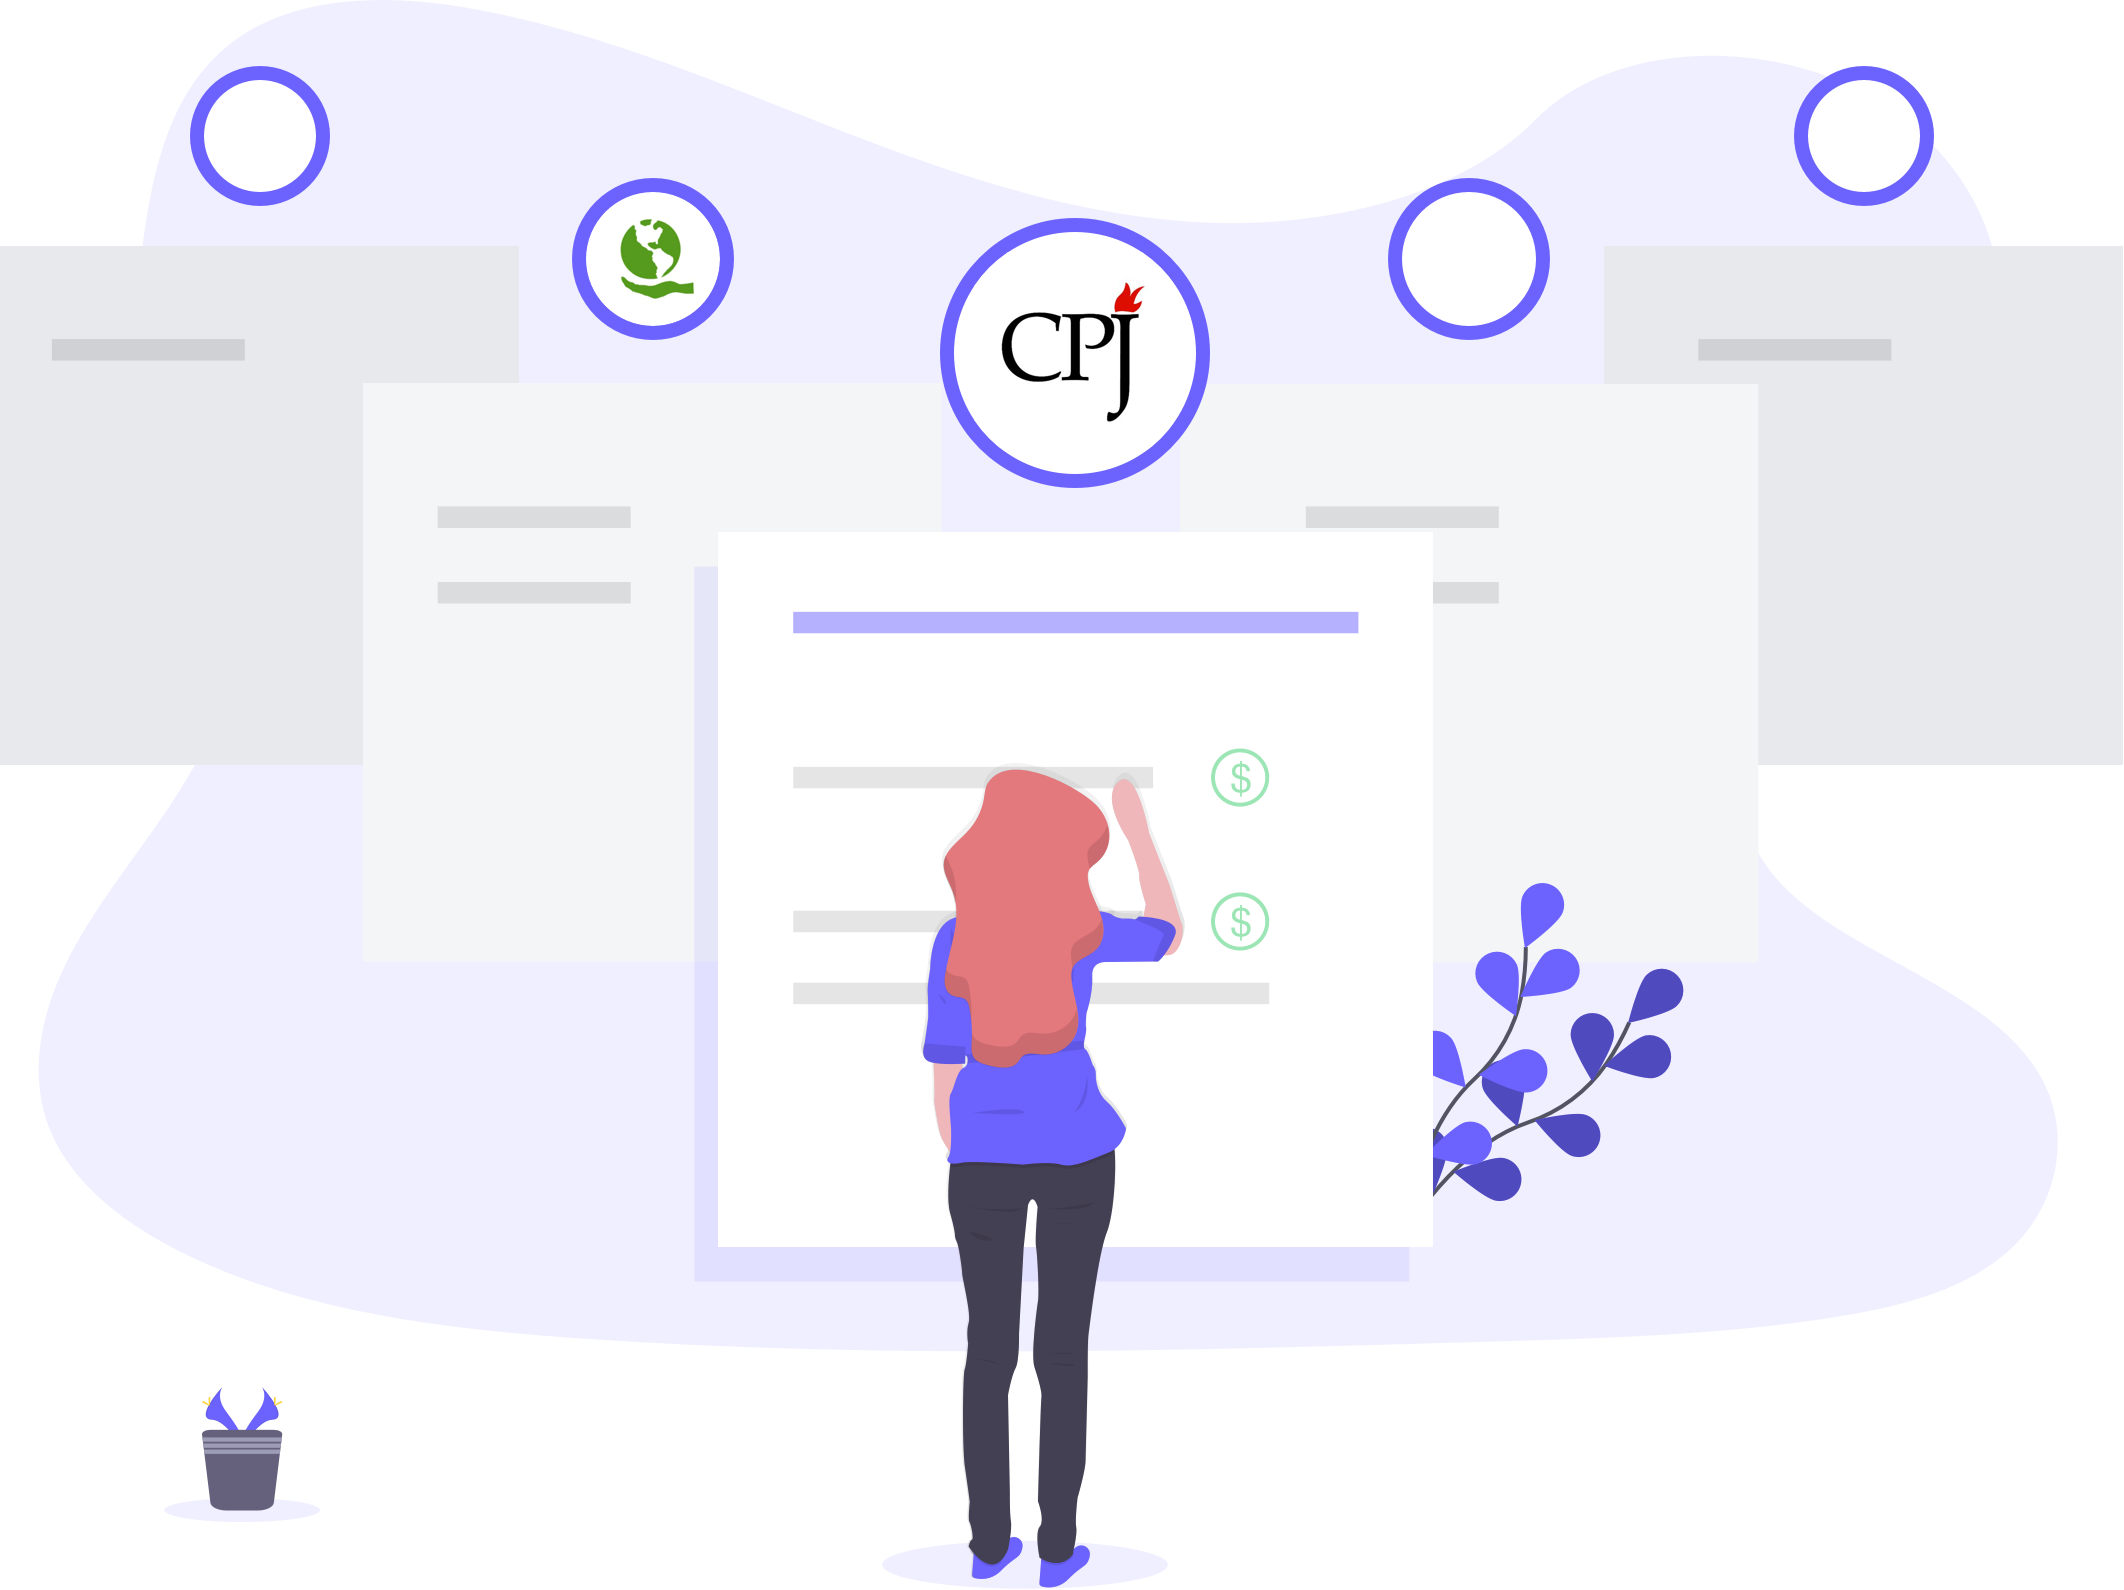
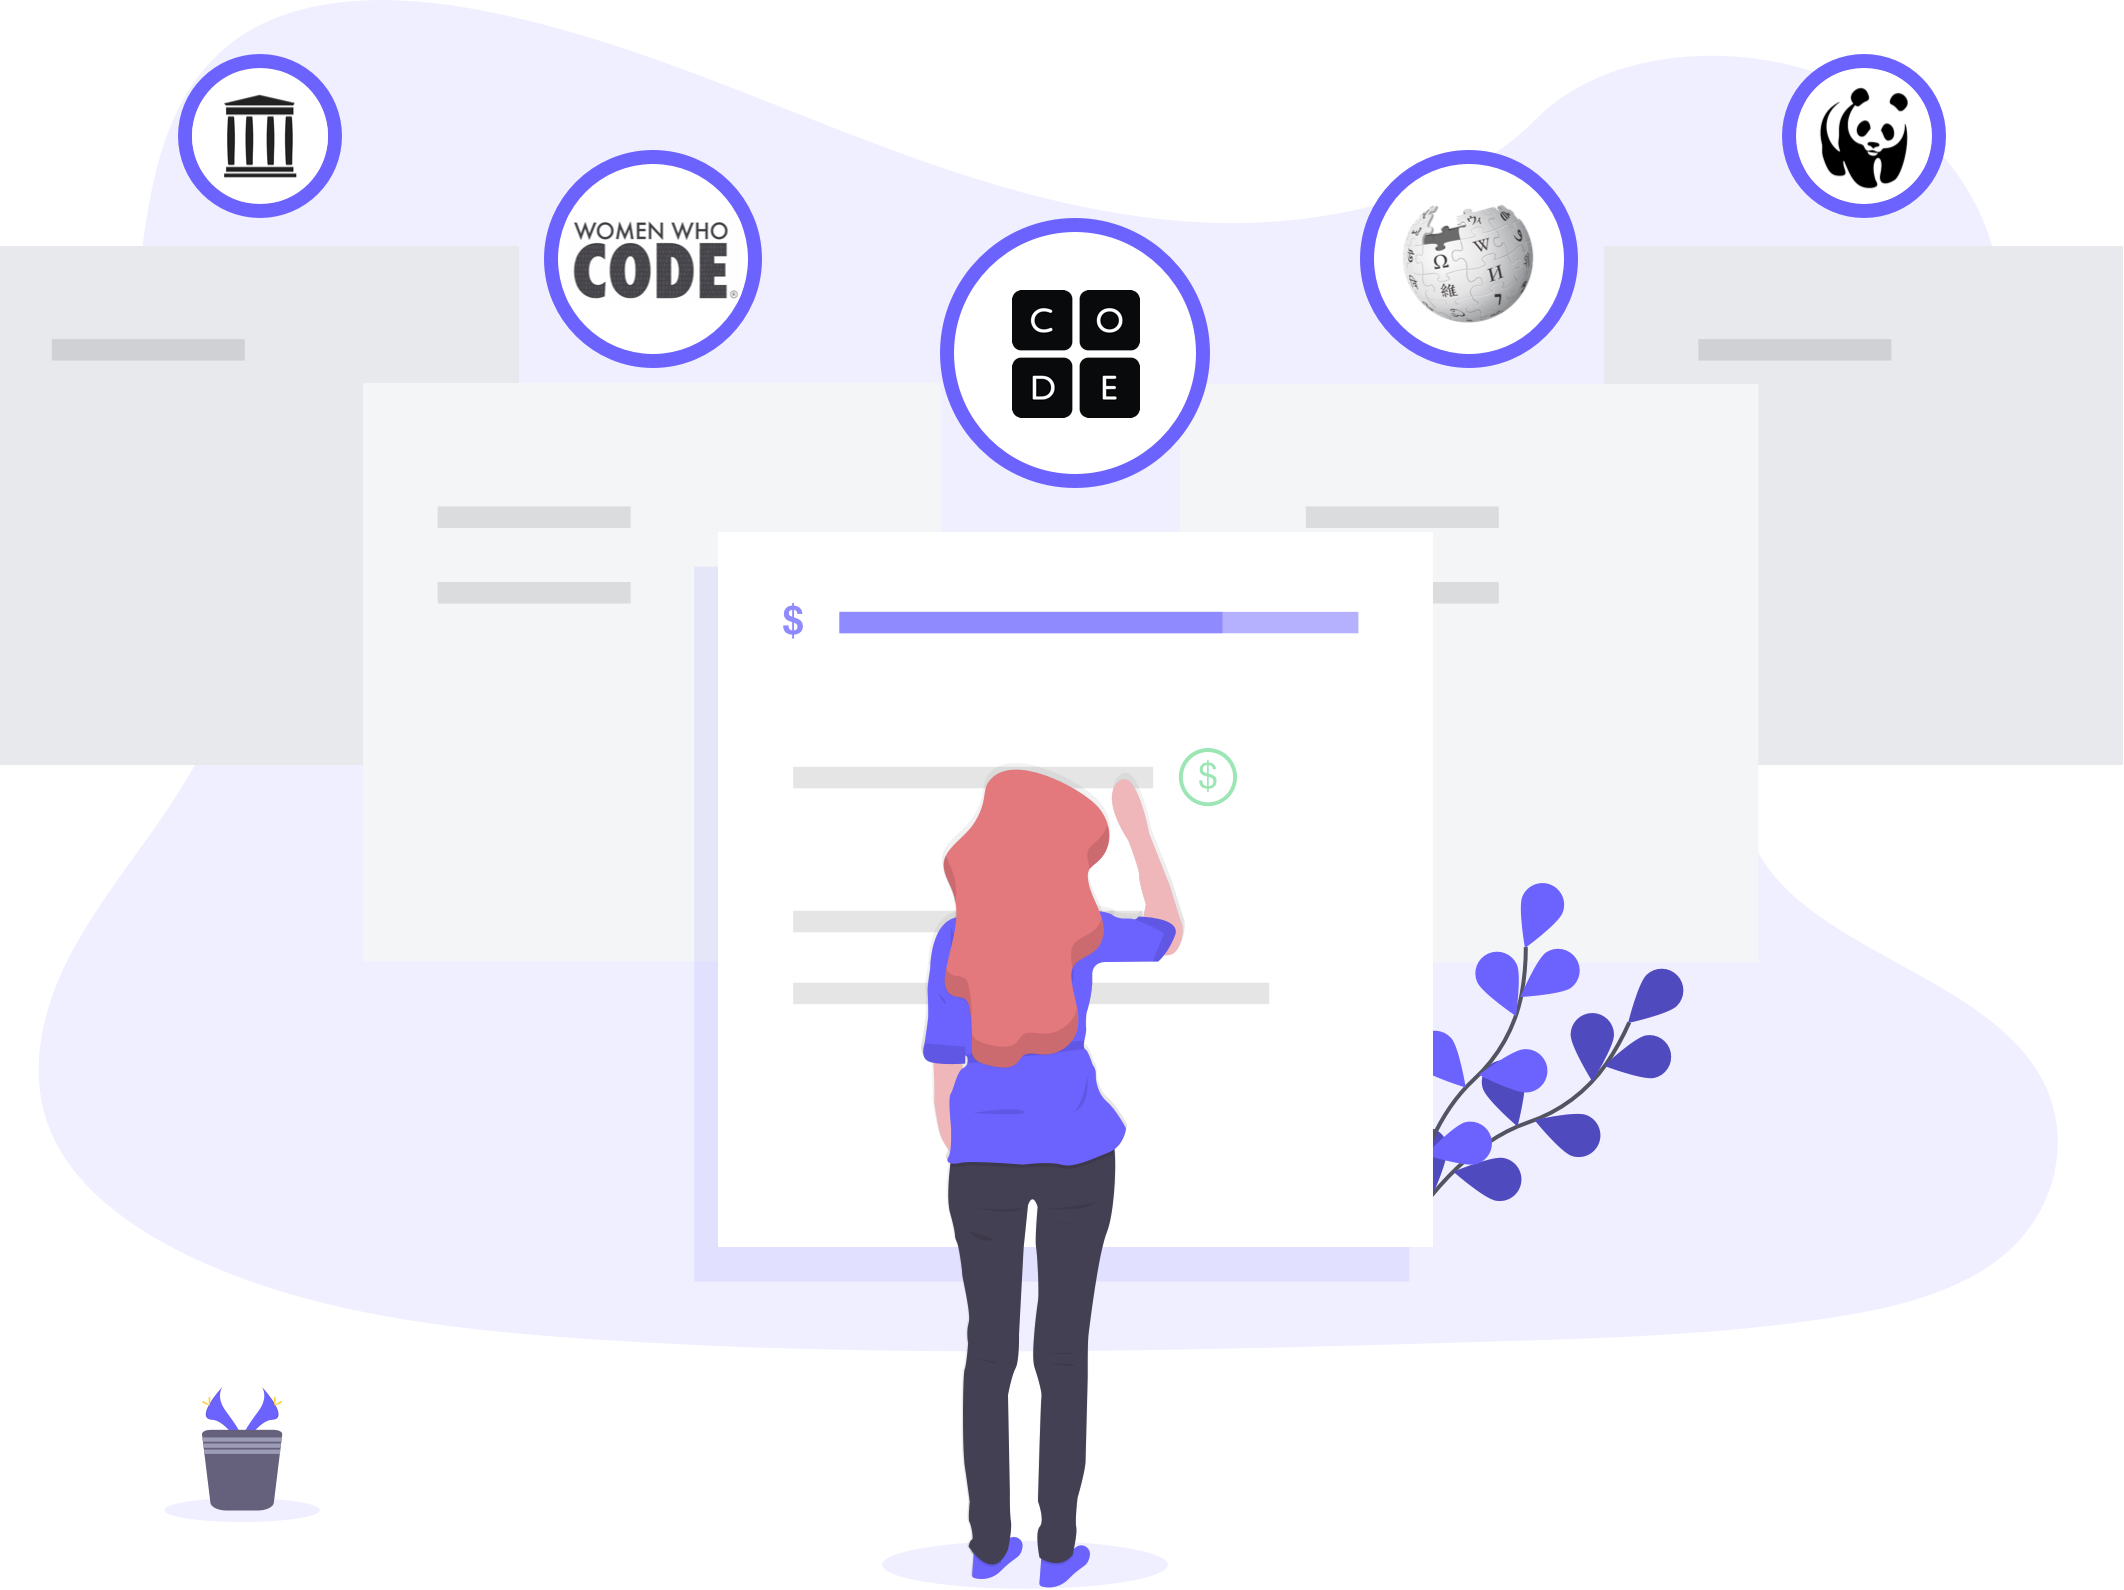
good browser

diff --git a/src/templates/ProductHero/index.scss b/src/templates/ProductHero/index.scss
@@ -32,7 +32,7 @@
     display: flex;
     flex-direction: column;
     justify-content: center;
-    max-width: 360px;
+    max-width: 40%;
     width: 100%;
 
     h1 {
@@ -64,6 +64,7 @@
     .product-hero__content {
       text-align: center;
       margin: 0 auto;
+      max-width: 720px;
 
       h1 {
         margin: 2rem auto 1rem auto;
@@ -75,6 +76,10 @@
 
       button {
         margin: 0 auto;
+      }
+
+      p {
+        margin: 0 auto 32px auto;
       }
     }
     .product-hero__image {

diff --git a/src/templates/ProductFacets/index.scss b/src/templates/ProductFacets/index.scss
@@ -35,7 +35,7 @@
     align-self: center;
     display: flex;
     height: 320px;
-    max-width: 440px;
+    max-width: 500px;
     padding: 0 20px;
   }
 

diff --git a/src/products/good-browser/v2.md b/src/products/good-browser/v2.md
@@ -7,28 +7,28 @@ contact: "jcramer@mozilla.com"
 product:
   -
     name: "Good Browser"
-    icon: "./images/icon.svg"
+    icon: "./images/good-browser-v2-icon.svg"
     hero:
       -
         title: "Wear your cause on the web"
         text: "Choose from curated, mission-driven campaigns. Wear and share your cause and earn money for your cause! It’s a win-win."
         cta: "Get Started"
-        image: "./images/hero.png"
+        image: "./images/good-browser-v2-hero.png"
     facets:
       -
         title: "Choose a cause"
         text: "We’ll curate timely campaigns from partners like Greenpeace, Committee to Protect Journalists, and more. Choose one to support for the month. Stick around to stay in the know about exciting mission-driven work happening now."
-        image: "./images/facet-white.png"
+        image: "./images/good-browser-v2-facet-1.png"
       -
         title: "Wear it, loud and proud"
         text: "Get an fun initiative badge to attach to your online profiles! Others can hover and click on it to learn about your initiative."
-        image: "./images/facet-blue.png"
+        image: "./images/good-browser-v2-facet-2.png"
       -
         title: "Get honorary memberships"
         text: "Get an honorary membership when you’re a top contributor to a campaign! That could mean a special invite or subscription or swag."
-        image: "./images/facet-blue.png"
+        image: "./images/good-browser-v2-facet-3.png"
       -
         title: "Nominate Partner Organizations"
         text: "Spearhead a mission-aligned organization that might benefit from Good Browser. Or apply to partner with Good Browser and join its network of companies, big and small, doing good on the Web."
-        image: "./images/facet-blue.png"
+        image: "./images/good-browser-v2-facet-4.png"
 ---

diff --git a/src/products/good-browser/v1.md b/src/products/good-browser/v1.md
@@ -7,7 +7,7 @@ contact: "jcramer@mozilla.com"
 product:
   -
     name: "Good Browser"
-    icon: "./images/icon.svg"
+    icon: "./images/good-browser-v1-icon.svg"
     hero:
       -
         title: "Earn money for a good cause—just by surfing the web."
